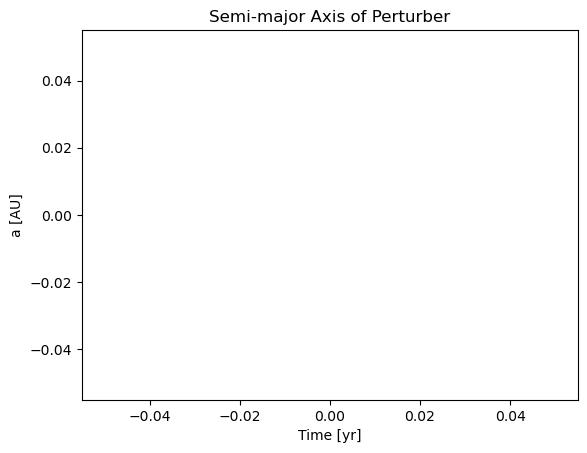
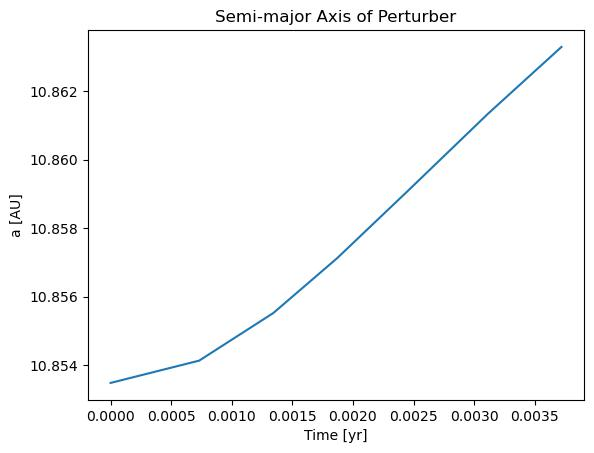
Added post-proc script to do regular plotting from saved data

diff --git a/Tools.py b/Tools.py
@@ -2,7 +2,6 @@ import json
 import rebound
 import numpy as np
 from numpy.linalg import norm as mag
-import matplotlib.pyplot as plt
 from astropy import constants
 import pandas as pd
 
@@ -276,17 +275,17 @@ def check_and_assign_minimums(sim, record):
 def initialize_data_collection():
     for BH in ["SMBH", "BBH_1", "BBH_2", "perturber"]:
         with open(f"data/{BH}_data.csv", "w") as file:
-            file.write(",".join(["time", "x", "y", "z"]) + "\n")
+            file.write(",".join(["time", "x", "y", "z", "vx", "vy", "vz"]) + "\n")
 
     with open("data/binary_data.csv", "w") as file:
-        file.write(",".join(["time", "x", "y", "z", "Eccentricity"]) + "\n")
+        file.write(",".join(["time", "x", "y", "z", "vx", "vy", "vz", "Eccentricity"]) + "\n")
 
     with open("data/other_data.csv", "w") as file:
         file.write(",".join(["time", "Perturber-Binary Separation", "a_perturber", "Time-Step"]) + "\n")
 
 
 def establish_BH_dataframes():
-    BH_df = pd.DataFrame(columns = ["time", "x", "y", "z"])
+    BH_df = pd.DataFrame(columns = ["time", "x", "y", "z", "vx", "vy", "vz"])
 
     SMBH_df = BH_df.copy(deep = True)
     BBH_1_df = BH_df.copy(deep = True)
@@ -301,13 +300,13 @@ def save_in_frame(frame, data):
 
 def save_data(sim):
     for hash, frame in establish_BH_dataframes():
-        data = [sim.t] + sim.particles[hash].xyz
+        data = [sim.t] + sim.particles[hash].xyz + sim.particles[hash].vxyz
         save_in_frame(frame, data)
-        frame.to_csv(f"data/{hash}_data.csv", mode = "a", header = False)
+        frame.to_csv(f"data/{hash}_data.csv", mode = "a", header = False, index = False)
 
-    binary_df = pd.DataFrame(columns = ["time", "x", "y", "z", "Eccentricity"])
+    binary_df = pd.DataFrame(columns = ["time", "x", "y", "z", "vx", "vy", "vz", "Eccentricity"])
     binary_COM = sim.calculate_com(first = 1, last = 3)
-    data = [sim.t] + binary_COM.xyz + [sim.particles["BBH_2"].calculate_orbit(primary = sim.particles["BBH_1"]).e]
+    data = [sim.t] + binary_COM.xyz + binary_COM.vxyz + [sim.particles["BBH_2"].calculate_orbit(primary = sim.particles["BBH_1"]).e]
     save_in_frame(binary_df, data)
     binary_df.to_csv("data/binary_data.csv", mode = "a", header = False)
 
@@ -315,89 +314,6 @@ def save_data(sim):
     data = [sim.t] + [get_perturber_binary_separation(binary_COM, sim.particles["perturber"])] + [sim.particles["perturber"].calculate_orbit(primary = sim.particles["SMBH"]).a] + [sim.dt]
     save_in_frame(other_df, data)
     other_df.to_csv("data/other_data.csv", mode = "a", header = False)
-
-
-def construct_plots():
-
-    plt.plot(times, time_steps)
-    plt.xlabel("Time [yr]")
-    plt.ylabel("dt [yr]")
-    plt.title("Time-step over Time")
-    plt.yscale("log", base = 10)
-    plt.savefig("plots/timeVsdt.jpg", bbox_inches = "tight")
-    plt.close()
-
-    plt.plot(times, binary_distances)
-    plt.xlabel("Time [yr]")
-    plt.ylabel("Distance [AU]")
-    plt.title("Distance Between BHs in Binary over Time")
-    plt.savefig("plots/timeVSDistance.jpg", bbox_inches = "tight")
-    plt.close()
-
-    plt.plot(times, eccentricities)
-    plt.xlabel("Time [yr]")
-    plt.ylabel("Eccentricity")
-    plt.title("Eccentricity of the Binary in the Barycentric Frame over Time")
-    plt.savefig("plots/timeVSEccentricity.jpg", bbox_inches = "tight")
-    plt.close()
-
-    plt.scatter(m1_a_xs, m1_a_ys, label = "m1_a")
-    plt.scatter(m1_b_xs, m1_b_ys, label = "m1_b")
-    plt.title("Trajectory of Binary BBHs in Barycentric Frame")
-    plt.xlabel("x [AU]")
-    plt.ylabel("y [AU]")
-    plt.legend()
-    plt.savefig("plots/BinaryTrajectory.jpg", bbox_inches = "tight")
-    plt.close()
-
-    plt.plot(times, SMBH_distances)
-    plt.xlabel("Time [yr]")
-    plt.ylabel("Distance [AU]")
-    plt.title("Distance from SMBH to m1 over Time")
-    plt.savefig("plots/BinaryDisttoSMBH.jpg", bbox_inches = "tight")
-    plt.close()
-
-    plt.scatter(np.array(m1_a_helio_xs), np.array(m1_a_helio_ys), label = "m1_a")
-    plt.scatter(np.array(m1_b_helio_xs), np.array(m1_b_helio_ys), label = "m1_b")
-    plt.scatter(np.array(perturber_xs), np.array(perturber_ys), label = "perturber")
-    plt.scatter(0, 0, label = "SMBH")
-    plt.title("System Trajectory")
-    plt.xlabel("x [AU]")
-    plt.ylabel("y [AU]")
-    plt.legend()
-    plt.savefig("plots/SystemTrajectory.jpg", bbox_inches = "tight")
-    plt.close()
-
-    plt.plot(times, perturber_m1a_distance)
-    plt.title("Distance Between m1_a and m2 over Time")
-    plt.xlabel("Time [yr]")
-    plt.ylabel("Distance [AU]")
-    plt.savefig("plots/DistPerturbm1a.jpg", bbox_inches = "tight")
-    plt.close()
-
-    plt.plot(times, perturber_m1b_distance)
-    plt.title("Distance Between m1_b and m2 over Time")
-    plt.xlabel("Time [yr]")
-    plt.ylabel("Distance [AU]")
-    plt.savefig("plots/DistPerturbm1b.jpg", bbox_inches = "tight")
-    plt.close()
-
-    plt.plot(times, perturber_binary_separation)
-    plt.title("Separation Between Orbits of Perturber and Binary \n $\\tau = 10^5 T_{m_2}$")
-    plt.xlabel("Time [yr]")
-    plt.ylabel("Separation [AU]")
-    plt.xscale("log")
-    plt.axhline(y = 4, color = "black", linestyle = "--", alpha = 0.5)
-    plt.axhline(y = 2.5, color = "black", linestyle = "--", alpha = 0.5)
-    plt.savefig("plots/DistPerturbBinary.jpg", bbox_inches = "tight")
-    plt.close()
-
-    plt.plot(times, perturber_a)
-    plt.title("Semi-major Axis of Perturber")
-    plt.xlabel("Time [yr]")
-    plt.ylabel("a [AU]")
-    plt.savefig("plots/PerturberSemiMajor.jpg", bbox_inches = "tight")
-    plt.close()
 
 
 class UnboundException(Exception):

diff --git a/PostProc.py b/PostProc.py
@@ -1,0 +1,112 @@
+import matplotlib.pyplot as plt
+import pandas as pd
+import numpy as np
+
+def read_data(object):
+    data = pd.read_csv(f"data/{object}_data.csv")
+    return data
+
+def get_xyz(data_frame):
+    return np.array(data_frame[["x", "y", "z"]].to_numpy().tolist())
+
+def get_relative_xyz(data_frame_target, data_frame_reference):
+    target_positions = get_xyz(data_frame_target)
+    reference_positions = get_xyz(data_frame_reference)
+    return target_positions - reference_positions
+
+def extract_coordinate(positions, coordinate):
+    if coordinate == "x":
+        coordinate = 0
+    elif coordinate == "y":
+        coordinate = 1
+    elif coordinate == "z":
+        coordinate = 2
+    coordinates = [position[coordinate] for position in positions]
+    return np.array(coordinates)
+
+def distance(p1, p2):
+    p1, p2 = get_xyz(p1), get_xyz(p2)
+    distances = []
+    for i, pos in enumerate(p1):
+        dist = np.linalg.norm(p1[i] - p2[i])
+        distances.append(dist)
+    return np.array(distances)
+
+def construct_plots():
+
+    other_data = read_data("other")
+    BBH_1_data = read_data("BBH_1")
+    BBH_2_data = read_data("BBH_2")
+    SMBH_data = read_data("SMBH")
+    perturber_data = read_data("perturber")
+    binary_data = read_data("binary")
+
+    plt.plot(other_data["time"], other_data["Time-Step"])
+    plt.xlabel("Time [yr]")
+    plt.ylabel("dt [yr]")
+    plt.title("Time-step over Time")
+    plt.yscale("log", base = 10)
+    plt.savefig("plots/time_vs_dt.jpg", bbox_inches = "tight")
+    plt.close()
+
+    plt.plot(BBH_1_data["time"], distance(BBH_1_data, BBH_2_data))
+    plt.xlabel("Time [yr]")
+    plt.ylabel("Distance [AU]")
+    plt.title("Distance Between BHs in Binary over Time")
+    plt.savefig("plots/time_vs_binary_distance.jpg", bbox_inches = "tight")
+    plt.close()
+
+    plt.plot(binary_data["time"], binary_data["Eccentricity"])
+    plt.xlabel("Time [yr]")
+    plt.ylabel("Eccentricity")
+    plt.title("Eccentricity of the Binary in the Barycentric Frame over Time")
+    plt.savefig("plots/time_vs_eccentricity.jpg", bbox_inches = "tight")
+    plt.close()
+
+    plt.scatter(extract_coordinate(get_relative_xyz(BBH_1_data, binary_data), "x"), extract_coordinate(get_relative_xyz(BBH_1_data, binary_data), "y"), label = "m1_a")
+    plt.scatter(extract_coordinate(get_relative_xyz(BBH_2_data, binary_data), "x"), extract_coordinate(get_relative_xyz(BBH_2_data, binary_data), "y"), label = "m1_b")
+    plt.title("Trajectory of Binary BBHs in Barycentric Frame")
+    plt.xlabel("x [AU]")
+    plt.ylabel("y [AU]")
+    plt.legend()
+    plt.savefig("plots/BinaryTrajectory.jpg", bbox_inches = "tight")
+    plt.close()
+
+    plt.plot(SMBH_data["time"], distance(SMBH_data, binary_data))
+    plt.xlabel("Time [yr]")
+    plt.ylabel("Distance [AU]")
+    plt.title("Distance from SMBH to $m_1$ over Time")
+    plt.savefig("plots/BinaryDisttoSMBH.jpg", bbox_inches = "tight")
+    plt.close()
+
+    plt.scatter(extract_coordinate(get_xyz(BBH_1_data), "x"), extract_coordinate(get_xyz(BBH_1_data), "y"), label = "m1_a")
+    plt.scatter(extract_coordinate(get_xyz(BBH_2_data), "x"), extract_coordinate(get_xyz(BBH_2_data), "y"), label = "m1_b")
+    plt.scatter(extract_coordinate(get_xyz(perturber_data), "x"), extract_coordinate(get_xyz(perturber_data), "y"), label = "perturber")
+    plt.scatter(extract_coordinate(get_xyz(SMBH_data), "x"), extract_coordinate(get_xyz(SMBH_data), "y"), label = "SMBH")
+    plt.title("System Trajectory")
+    plt.xlabel("x [AU]")
+    plt.ylabel("y [AU]")
+    plt.legend()
+    plt.savefig("plots/SystemTrajectory.jpg", bbox_inches = "tight")
+    plt.close()
+
+    plt.plot(other_data["time"], other_data["Perturber-Binary Separation"])
+    plt.title("Separation Between Orbits of Perturber and Binary \n $\\tau = 10^5 T_{m_2}$")
+    plt.xlabel("Time [yr]")
+    plt.ylabel("Separation [AU]")
+    plt.xscale("log")
+    plt.axhline(y = 4, color = "black", linestyle = "--", alpha = 0.5)
+    plt.axhline(y = 2.5, color = "black", linestyle = "--", alpha = 0.5)
+    plt.savefig("plots/DistPerturbBinary.jpg", bbox_inches = "tight")
+    plt.close()
+
+    plt.plot(other_data["time"], other_data["a_perturber"])
+    plt.title("Semi-major Axis of Perturber")
+    plt.xlabel("Time [yr]")
+    plt.ylabel("a [AU]")
+    plt.savefig("plots/PerturberSemiMajor.jpg", bbox_inches = "tight")
+    plt.close()
+
+construct_plots()
+
+
